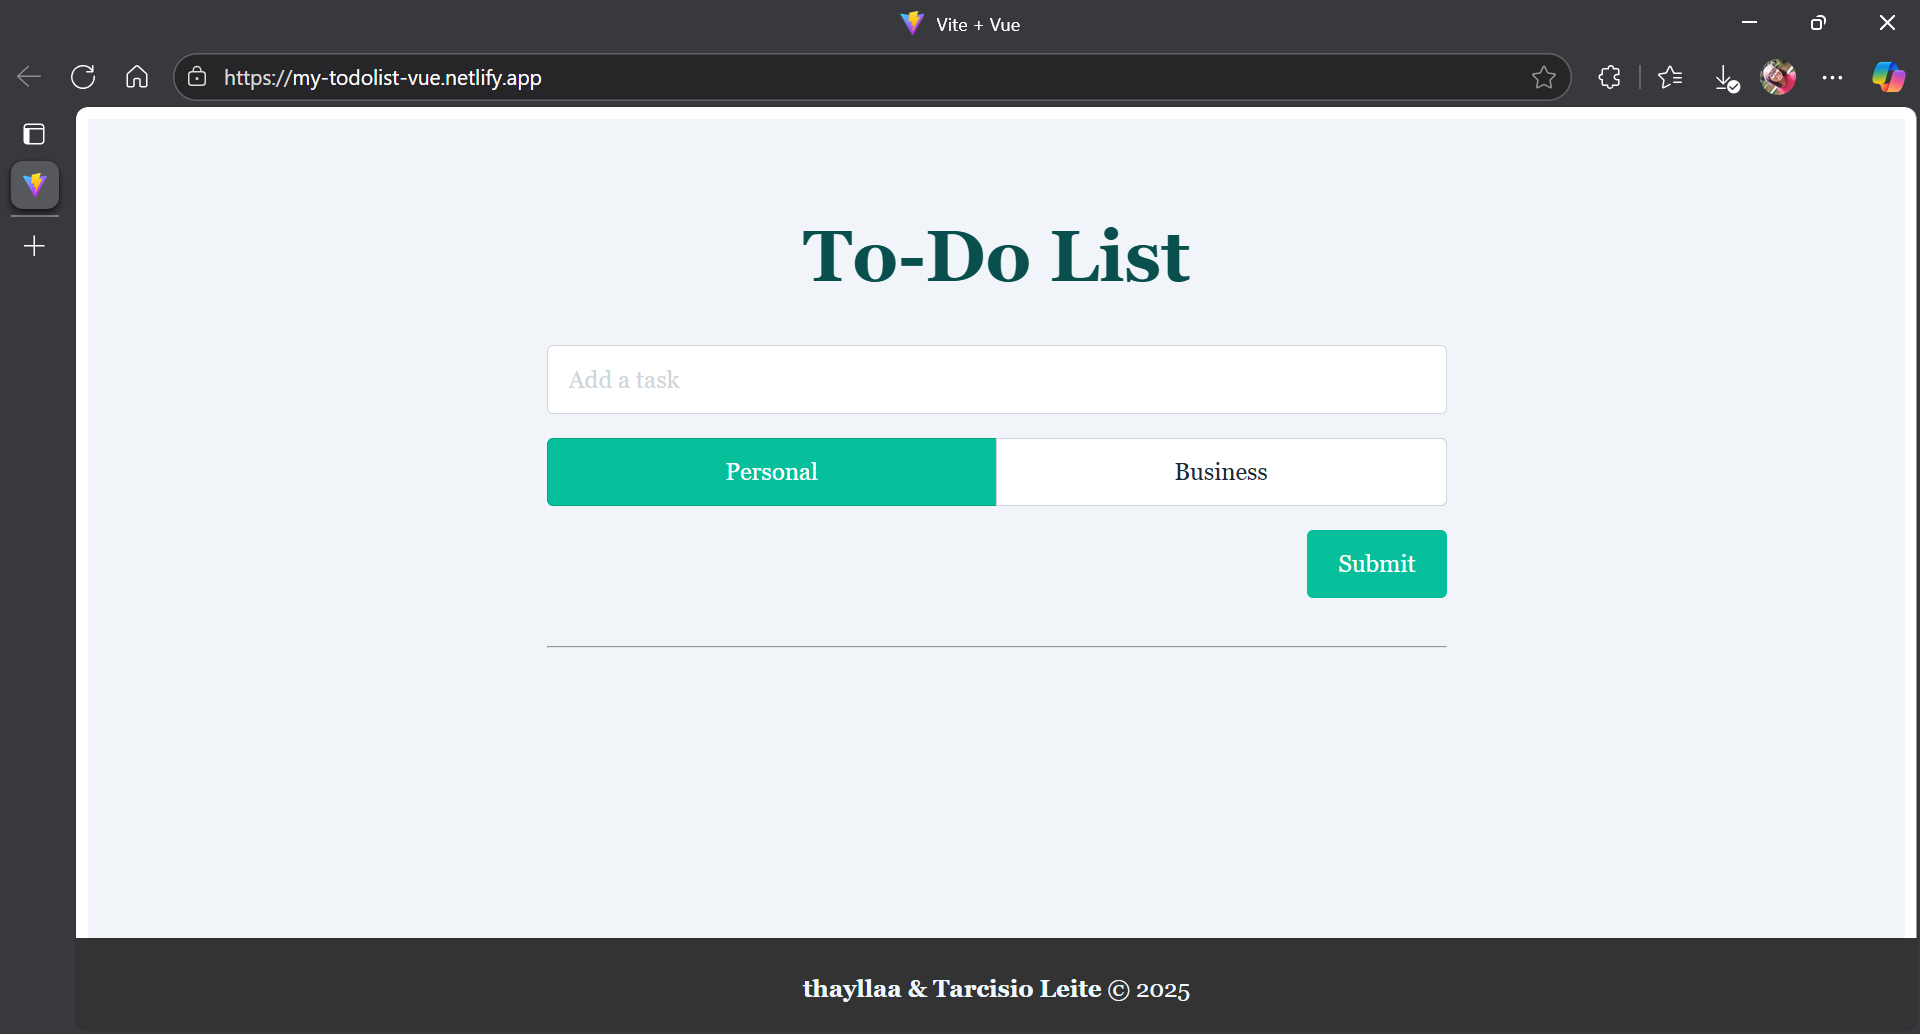
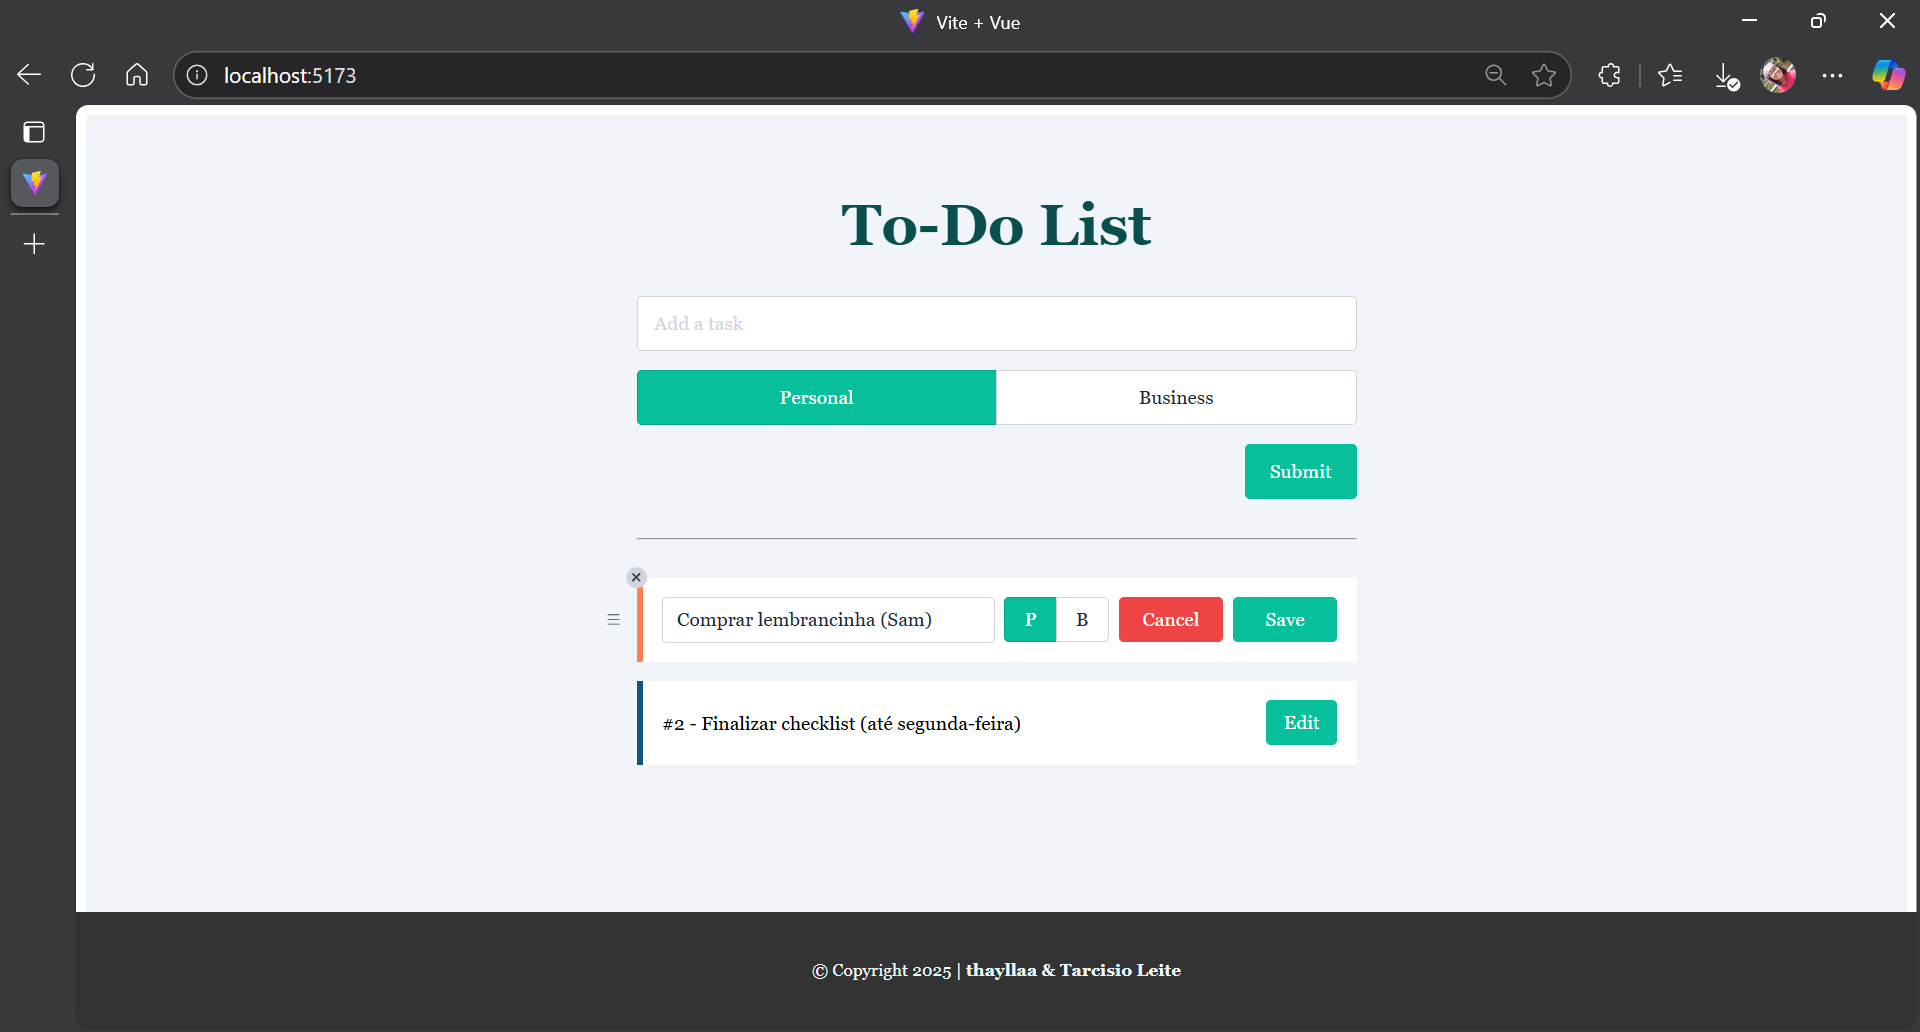
Atualizando o footer e imagem de teste para readme

diff --git a/src/css/style.css b/src/css/style.css
@@ -58,17 +58,21 @@ h1 {
 }
 
 footer {
-	position: fixed;
-	bottom: 0;
-	left: 0;
-	width: 100%;
-	height: 10%;
-	text-align: center;
-	justify-content: center;
-	background-color: #333;
-	color: aliceblue;
+    position: fixed;
+    bottom: 0;
+    left: 0;
+    width: 100%;
+    height: 10%;
+    background-color: #333; 
+    color: aliceblue;
+    display: flex;
+    align-items: center; 
+    justify-content: center; 
+    flex-direction: column;
+    padding: 10px 0;
 }
 
 footer p {
-	margin-top: 2%;
+    margin: 5px 0;
+    font-size: 0.9em;
 }

diff --git a/src/App.vue b/src/App.vue
@@ -67,7 +67,7 @@
       </Vueform>
     </div>
     <footer>
-      <p><strong>thayllaa & Tarcisio Leite </strong> &copy; 2025</p>
+      <p> &copy; Copyright 2025 | <strong>thayllaa & Tarcisio Leite </strong></p>
     </footer>
   </div>
 </template>
